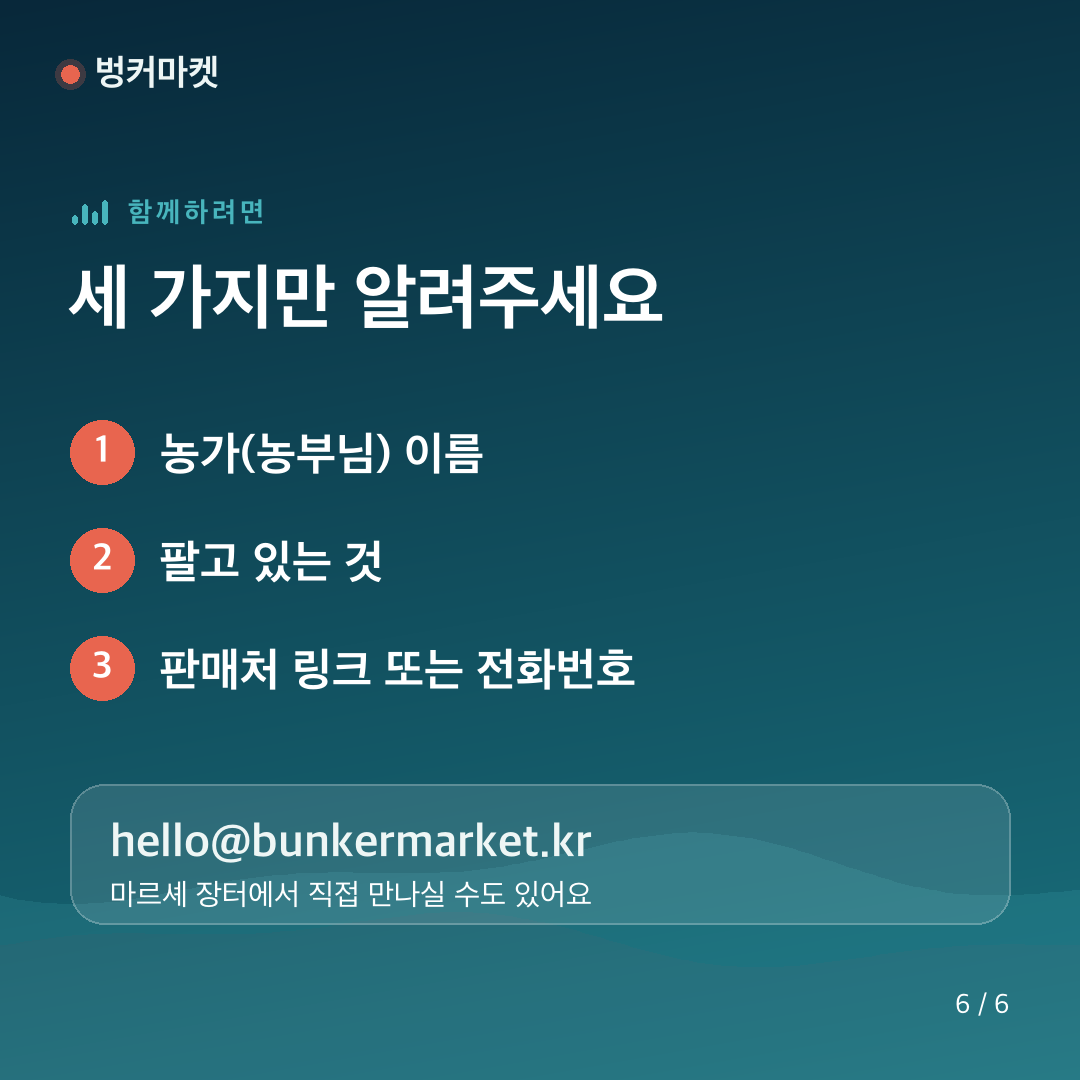
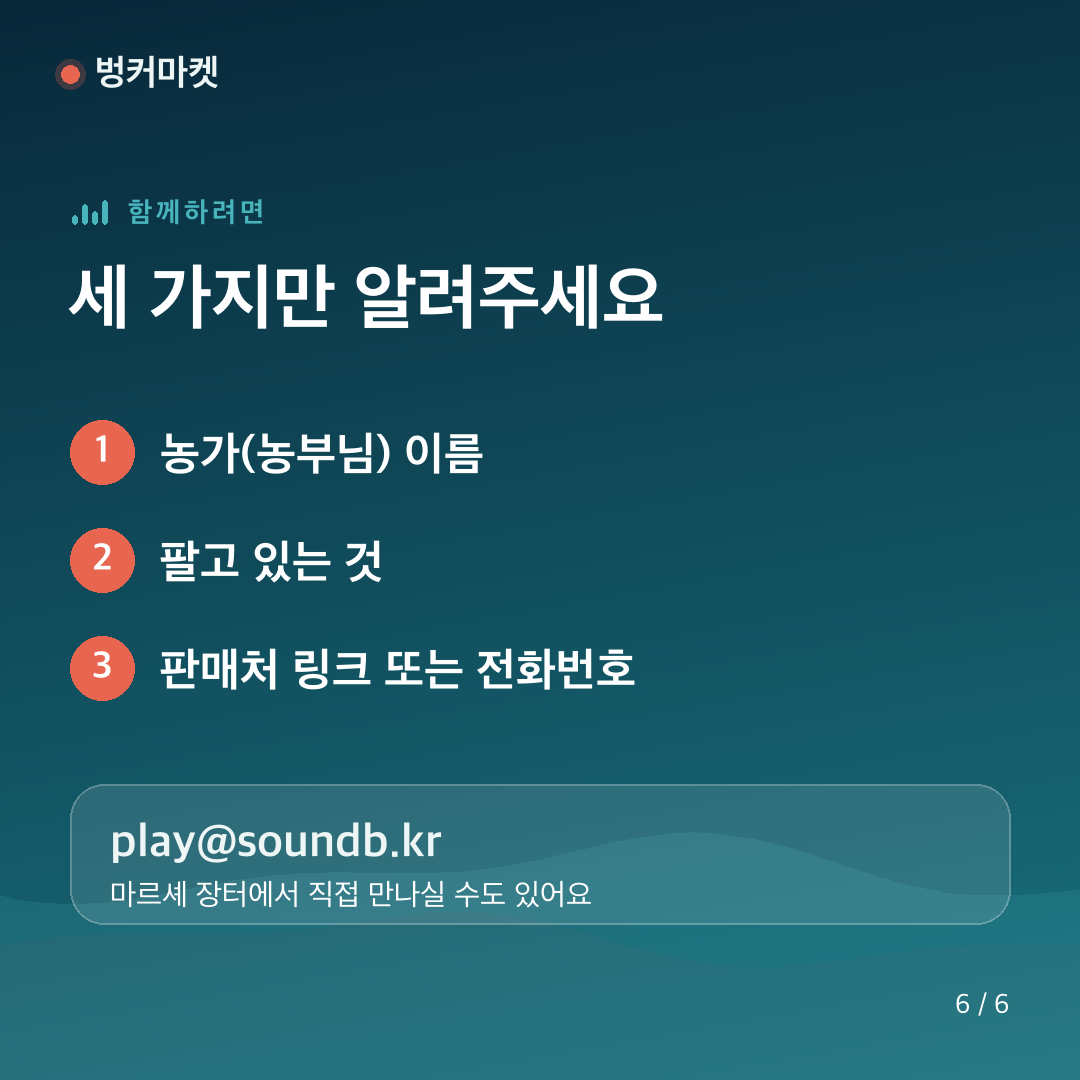
연락 이메일 [email redacted] 로 통일 + 카드뉴스 문구 정직화('지금은 수수료 0원')

Changed region(s): [[0.0917, 0.7639, 0.55, 0.7944]]

diff --git a/index.html b/index.html
@@ -108,7 +108,7 @@
     <div class="col"><h4>소리</h4>
       <a href="index.html#sounds">소리 아카이브</a><a href="nfc.html">NFC 카드</a></div>
     <div class="col"><h4>문의</h4>
-      <a href="mailto:[email redacted]">[email redacted]</a><a href="#">마르셰 장터 일정</a></div>
+      <a href="mailto:[email redacted]">[email redacted]</a><a href="#">마르셰 장터 일정</a></div>
   </div>
 </footer>
 

diff --git a/js/app.js b/js/app.js
@@ -14,7 +14,7 @@ const U = {
   buyLink(l){
     if(l.link) return l.link;
     if(U.category(l.category).mode === 'inquiry')
-      return `mailto:[email redacted]?subject=${encodeURIComponent('[문의] '+l.title)}`;
+      return `mailto:[email redacted]?subject=${encodeURIComponent('[문의] '+l.title)}`;
     // 폴백: 실제 판매처 URL이 없을 때. 존재하지 않는 농가명은 빼고
     // 상품명만으로 검색해야 실제 결과가 나온다.
     const q = encodeURIComponent(l.searchQuery || l.title);

diff --git a/marketing/make_cardnews.py b/marketing/make_cardnews.py
@@ -177,7 +177,7 @@ img = base(); d = brand(img)
 kicker(d, "조건은요?", 200)
 y = 270
 for big, small in [("입점비 0원", "내실 돈이 없습니다"),
-                   ("수수료 0원", "판매는 농부님 판매처에서 그대로"),
+                   ("지금은 수수료 0원", "판매는 농부님 판매처에서 그대로"),
                    ("과장 없음", "“소리가 흐르는 곳에서 자란” — 사실만 말합니다")]:
     d.text((70, y), big, font=font(64), fill=FOAM)
     d.text((70, y+82), small, font=font(36, False), fill=(255,255,255,190))
@@ -202,7 +202,7 @@ for i, t in enumerate(items, 1):
 pill = Image.new("RGBA", (W, H), (0,0,0,0)); pd = ImageDraw.Draw(pill)
 pd.rounded_rectangle([70, y+40, W-70, y+180], 34, fill=(255,255,255,28), outline=(255,255,255,80), width=2)
 img.alpha_composite(pill); d = ImageDraw.Draw(img)
-d.text((110, y+72), "[email redacted]", font=font(46), fill=FOAM)
+d.text((110, y+72), "[email redacted]", font=font(46), fill=FOAM)
 d.text((110, y+134), "마르셰 장터에서 직접 만나실 수도 있어요", font=font(30, False), fill=(255,255,255,180))
 pagenum(d, 6)
 img.convert("RGB").save(f"{OUT}/card-6.png")